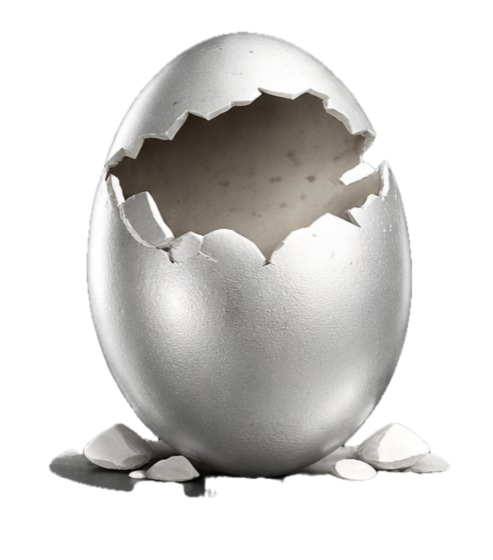
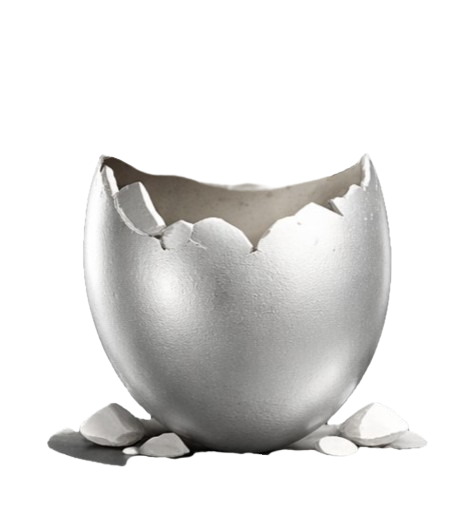
Add place level egg selector, start/end dates, and remove unused assets

diff --git a/src/components/Editors/PlaceEditor.jsx b/src/components/Editors/PlaceEditor.jsx
@@ -5,6 +5,9 @@ import { IoRemoveCircleOutline } from "react-icons/io5";
 import { toast } from "react-toastify";
 import parrotMarker1 from "../../assets/images/parrotMarker1.png";
 import uploadImage from "../../assets/images/ParrotsLogoPlus.png";
+import whiteegg from "../../assets/images/whiteegg.png";
+import silveregg from "../../assets/images/silveregg.png";
+import goldenegg from "../../assets/images/goldenegg.png";
 import { useAddPlaceMutation, useUpdateVoyageProfileImageMutation } from "../../slices/VoyageSlice";
 import {
   adminPage, adminCard, adminTitle, adminRow, adminLabel,
@@ -36,6 +39,9 @@ export function PlaceEditor() {
   const [description, setDescription] = useState("");
   const [latitude, setLatitude] = useState(null);
   const [longitude, setLongitude] = useState(null);
+  const [placeType, setPlaceType] = useState(1);
+  const [startDate, setStartDate] = useState("");
+  const [endDate, setEndDate] = useState("");
   const [imageFile, setImageFile] = useState(null);
   const [imagePreview, setImagePreview] = useState(null);
   const [saving, setSaving] = useState(false);
@@ -84,6 +90,9 @@ export function PlaceEditor() {
     setDescription("");
     setLatitude(null);
     setLongitude(null);
+    setPlaceType(1);
+    setStartDate("");
+    setEndDate("");
     handleCancelImage();
   };
 
@@ -93,7 +102,11 @@ export function PlaceEditor() {
     if (!canSubmit) return;
     setSaving(true);
     try {
-      const result = await addPlace({ name, brief, description, latitude, longitude }).unwrap();
+      const result = await addPlace({
+        name, brief, description, latitude, longitude, placeType,
+        startDate: startDate || undefined,
+        endDate: endDate || undefined,
+      }).unwrap();
       const placeId = result.data?.id;
 
       if (imageFile && placeId) {
@@ -140,6 +153,46 @@ export function PlaceEditor() {
             placeholder="Full description"
             value={description}
             onChange={(e) => setDescription(e.target.value)}
+          />
+        </div>
+
+        <div style={adminRow}>
+          <span style={adminLabel}>Level</span>
+          <div style={eggSelectorRow}>
+            {[
+              { value: 1, img: whiteegg, label: "White" },
+              { value: 2, img: silveregg, label: "Silver" },
+              { value: 3, img: goldenegg, label: "Golden" },
+            ].map(({ value, img, label }) => (
+              <div
+                key={value}
+                onClick={() => setPlaceType(value)}
+                style={eggSelectorItem(placeType === value)}
+              >
+                <img src={img} alt={label} style={eggSelectorImg} />
+                <span style={eggSelectorLabel}>{label}</span>
+              </div>
+            ))}
+          </div>
+        </div>
+
+        <div style={adminRow}>
+          <span style={adminLabel}>Start Date</span>
+          <input
+            type="date"
+            style={adminInput}
+            value={startDate}
+            onChange={(e) => setStartDate(e.target.value)}
+          />
+        </div>
+
+        <div style={adminRow}>
+          <span style={adminLabel}>End Date</span>
+          <input
+            type="date"
+            style={adminInput}
+            value={endDate}
+            onChange={(e) => setEndDate(e.target.value)}
           />
         </div>
 
@@ -232,6 +285,36 @@ const imagePreviewStyle = {
   objectFit: "cover",
   borderRadius: "8px",
   border: "1px solid #cbd5e1",
+};
+
+const eggSelectorRow = {
+  display: "flex",
+  gap: "1rem",
+};
+
+const eggSelectorItem = (selected) => ({
+  display: "flex",
+  flexDirection: "column",
+  alignItems: "center",
+  gap: "0.3rem",
+  cursor: "pointer",
+  padding: "0.5rem 0.75rem",
+  borderRadius: "10px",
+  border: selected ? "2px solid #0077ea" : "2px solid transparent",
+  backgroundColor: selected ? "rgba(0,119,234,0.08)" : "transparent",
+  transition: "all 0.15s",
+});
+
+const eggSelectorImg = {
+  width: "2.8rem",
+  height: "3.2rem",
+  objectFit: "contain",
+};
+
+const eggSelectorLabel = {
+  fontSize: "0.75rem",
+  fontWeight: "600",
+  color: "#475569",
 };
 
 const cancelImageBtn = {

diff --git a/src/components/Editors/PlaceEditorEdit.jsx b/src/components/Editors/PlaceEditorEdit.jsx
@@ -1,4 +1,7 @@
 import { useState, useRef } from "react";
+import whiteegg from "../../assets/images/whiteegg.png";
+import silveregg from "../../assets/images/silveregg.png";
+import goldenegg from "../../assets/images/goldenegg.png";
 import { IoRemoveCircleOutline } from "react-icons/io5";
 import { toast } from "react-toastify";
 import uploadImage from "../../assets/images/ParrotsLogoPlus.png";
@@ -36,7 +39,7 @@ export function PlaceEditorEdit() {
       if (!data) {
         toast.error("Place not found.");
         setPlace(null);
-      } else if (!data.isPlace) {
+      } else if (data.placeType === 0) {
         toast.error("This ID does not belong to a place.");
         setPlace(null);
       } else {
@@ -78,6 +81,9 @@ export function PlaceEditorEdit() {
         { op: "replace", path: "/description", value: place.description },
         { op: "replace", path: "/isDeleted", value: place.isDeleted },
         { op: "replace", path: "/publicOnMap", value: place.publicOnMap },
+        { op: "replace", path: "/placeType", value: place.placeType },
+        { op: "replace", path: "/startDate", value: place.startDate },
+        { op: "replace", path: "/endDate", value: place.endDate },
       ].filter(item => item.value !== undefined);
       await patchVoyageAdmin({ voyageId: place.id, patchDoc }).unwrap();
 
@@ -152,6 +158,46 @@ export function PlaceEditorEdit() {
             </div>
 
             <div style={adminRow}>
+              <span style={adminLabel}>Level</span>
+              <div style={eggSelectorRow}>
+                {[
+                  { value: 1, img: whiteegg, label: "White" },
+                  { value: 2, img: silveregg, label: "Silver" },
+                  { value: 3, img: goldenegg, label: "Golden" },
+                ].map(({ value, img, label }) => (
+                  <div
+                    key={value}
+                    onClick={() => handleChange("placeType", value)}
+                    style={eggSelectorItem(p.placeType === value)}
+                  >
+                    <img src={img} alt={label} style={eggSelectorImg} />
+                    <span style={eggSelectorLabel}>{label}</span>
+                  </div>
+                ))}
+              </div>
+            </div>
+
+            <div style={adminRow}>
+              <span style={adminLabel}>Start Date</span>
+              <input
+                type="date"
+                style={adminInput}
+                value={p.startDate ? p.startDate.slice(0, 10) : ""}
+                onChange={(e) => handleChange("startDate", e.target.value)}
+              />
+            </div>
+
+            <div style={adminRow}>
+              <span style={adminLabel}>End Date</span>
+              <input
+                type="date"
+                style={adminInput}
+                value={p.endDate ? p.endDate.slice(0, 10) : ""}
+                onChange={(e) => handleChange("endDate", e.target.value)}
+              />
+            </div>
+
+            <div style={adminRow}>
               <span style={adminLabel}>Image</span>
               <div style={{ display: "flex", alignItems: "center", gap: "1rem" }}>
                 <input
@@ -206,6 +252,36 @@ const imagePreviewStyle = {
   objectFit: "cover",
   borderRadius: "8px",
   border: "1px solid #cbd5e1",
+};
+
+const eggSelectorRow = {
+  display: "flex",
+  gap: "1rem",
+};
+
+const eggSelectorItem = (selected) => ({
+  display: "flex",
+  flexDirection: "column",
+  alignItems: "center",
+  gap: "0.3rem",
+  cursor: "pointer",
+  padding: "0.5rem 0.75rem",
+  borderRadius: "10px",
+  border: selected ? "2px solid #0077ea" : "2px solid transparent",
+  backgroundColor: selected ? "rgba(0,119,234,0.08)" : "transparent",
+  transition: "all 0.15s",
+});
+
+const eggSelectorImg = {
+  width: "2.8rem",
+  height: "3.2rem",
+  objectFit: "contain",
+};
+
+const eggSelectorLabel = {
+  fontSize: "0.75rem",
+  fontWeight: "600",
+  color: "#475569",
 };
 
 const cancelImageBtn = {

diff --git a/src/components/MainPageClusteredParrots.jsx b/src/components/MainPageClusteredParrots.jsx
@@ -9,11 +9,23 @@ import parrotMarker3 from "../assets/images/parrotMarker3.png";
 import parrotMarker4 from "../assets/images/parrotMarker4.png";
 import parrotMarker5 from "../assets/images/parrotMarker5.png";
 import parrotMarker6 from "../assets/images/parrotMarker6.png";
-import parrotPlace from "../assets/images/goldenegg.png";
-import parrotPlaceOpen from "../assets/images/crackedgoldenegg.png";
+import whiteegg from "../assets/images/whiteegg.png";
+import crackedwhiteegg from "../assets/images/crackedwhiteegg.png";
+import silveregg from "../assets/images/silveregg.png";
+import crackedsilveregg from "../assets/images/crackedsilveregg.png";
+import goldenegg from "../assets/images/goldenegg.png";
+import crackedgoldenegg from "../assets/images/crackedgoldenegg.png";
 import { useNavigate } from "react-router-dom";
 import { parrotTextDarkBlue } from "../styles/colors";
 import DOMPurify from "dompurify";
+
+
+const placeIcons = {
+  1: { normal: whiteegg, open: crackedwhiteegg },
+  2: { normal: silveregg, open: crackedsilveregg },
+  3: { normal: goldenegg, open: crackedgoldenegg },
+};
+
 
 const markerImages = [
   parrotMarker1, parrotMarker2, parrotMarker3,
@@ -104,7 +116,8 @@ function PlaceMarker({ voyage, icon }) {
   const markerRef = useRef(null);
   const [popupOpen, setPopupOpen] = useState(false);
 
-  const openIcon = L.icon({ iconUrl: parrotPlaceOpen, iconSize: [50, 60], iconAnchor: [25, 60], popupAnchor: [0, -41] });
+  const eggSet = placeIcons[voyage.placeType] || placeIcons[3];
+  const openIcon = L.icon({ iconUrl: eggSet.open, iconSize: [50, 60], iconAnchor: [25, 60], popupAnchor: [0, -41] });
 
   return (
     <Marker
@@ -165,14 +178,17 @@ export const ClusteredVoyageMarkers = ({ voyages }) => {
         if (!voyage.waypoints?.[0]) return null;
         const { latitude, longitude } = voyage.waypoints[0];
 
+        const isPlace = voyage.placeType > 0;
+        const eggSet = placeIcons[voyage.placeType];
+
         const icon = L.icon({
-          iconUrl: voyage.isPlace ? parrotPlace : markerImages[index % 6],
+          iconUrl: isPlace ? eggSet.normal : markerImages[index % 6],
           iconSize: [50, 60],
           iconAnchor: [25, 60],
-          popupAnchor: voyage.isPlace ? [0, -41] : [0, -62],
+          popupAnchor: isPlace ? [0, -41] : [0, -62],
         });
 
-        if (voyage.isPlace) {
+        if (isPlace) {
           return <PlaceMarker key={`place-${voyage.id}`} voyage={voyage} icon={icon} />;
         }
 
